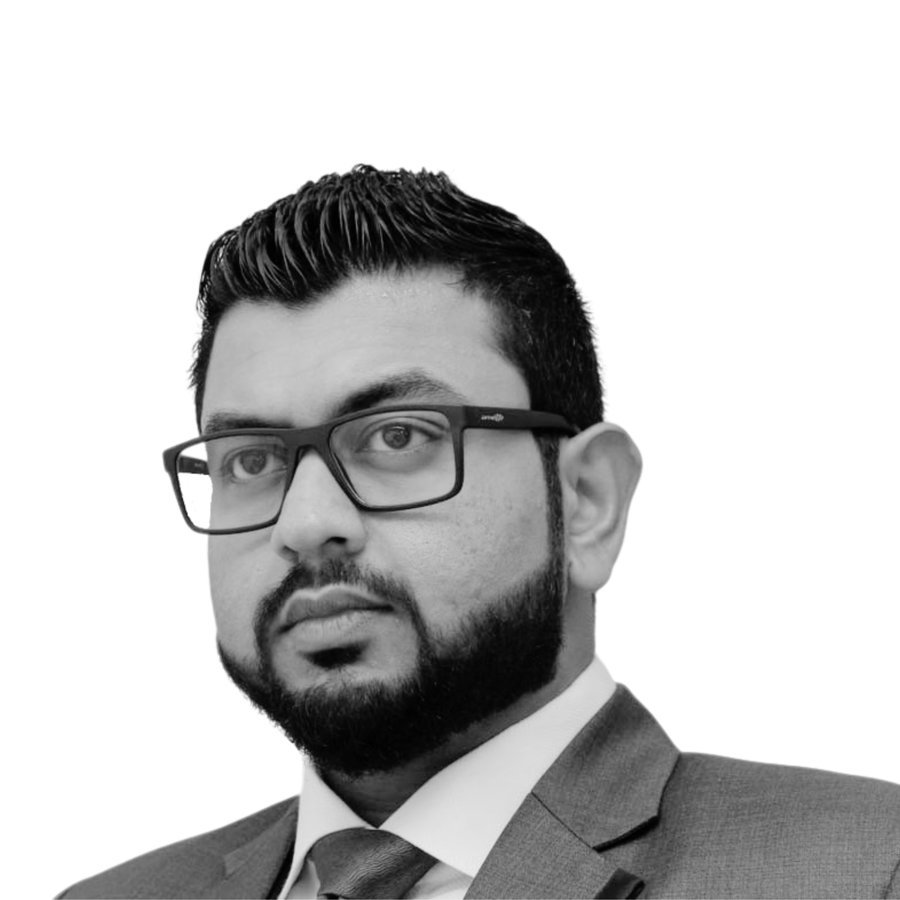
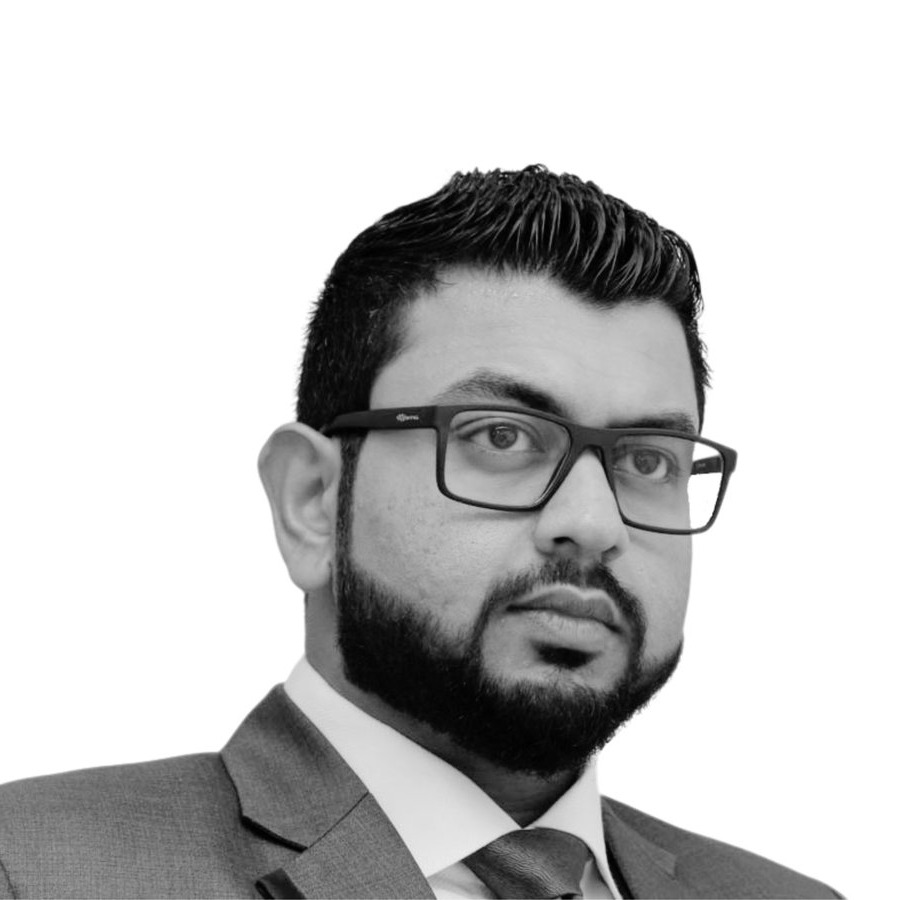
Switch general content area to light gray theme, drop background texture, flip profile photo, scope count-up animation to header only
- Removed the site-wide background texture/parallax layer entirely (div,
  CSS, JS, and the source image). Hero and footer keep their existing dark
  backgrounds and imagery untouched.
- Reworked the color system: general content (stats, experience, skills,
  background sections) now runs on a light gray palette. Hero/footer/nav/
  crosshair/side-rail — everything drawn against the still-dark hero and
  footer — now uses a separate --accent-on-dark token tuned for contrast
  against dark backgrounds, since a single accent can't read well against
  both a light and a dark background at once.
- Flipped the profile photo horizontally.
- Animated count-up numbers now apply only to the header stats strip
  (14+, 180+, etc.), at a faster 2s duration. Role-level metric cards and
  GOS project values are back to static text.

diff --git a/styles.css b/styles.css
@@ -1,10 +1,15 @@
 :root{
-  --bg:#10141a; --surface:#171d26; --surface-2:#1c2430; --surface-3:#242e3c;
-  --ink:#edf0f3; --ink-soft:#aeb7c2; --ink-faint:#7d8794;
-  --line:#2b3542; --line-soft:#212a36;
-  --accent:#e2913f; --accent-ink:#1a1206; --accent-soft:#4a3319;
-  --steel:#7fa1c4; --steel-soft:#22303f;
-  --shadow: 0 1px 2px rgba(0,0,0,.35), 0 10px 30px -14px rgba(0,0,0,.65);
+  --bg:#eef0f2; --surface:#ffffff; --surface-2:#e3e6e9; --surface-3:#d7dade;
+  --ink:#1b2027; --ink-soft:#565f6b; --ink-faint:#7c8492;
+  --line:#ccd0d5; --line-soft:#dde0e3;
+  --accent:#c06a1f; --accent-rgb:192,106,31; --accent-ink:#fffaf3; --accent-soft:#e9c79a;
+  /* Hero, footer, and the top nav keep their own dark backgrounds (unchanged by
+     the light theme below); anything drawn against them — chips, the crosshair,
+     the side rail, the profile-photo corners — needs a brighter accent to stay
+     legible, since the general-content accent above is tuned for a light bg. */
+  --accent-on-dark:#e2913f; --accent-on-dark-rgb:226,145,63;
+  --steel:#33506d; --steel-soft:#dbe4ec;
+  --shadow: 0 1px 2px rgba(20,20,10,.06), 0 8px 24px -12px rgba(20,20,10,.16);
   --font-display: 'Inter', -apple-system, "Segoe UI", "Helvetica Neue", Arial, sans-serif;
   --font-body: 'Inter', -apple-system, "Segoe UI", "Helvetica Neue", Arial, sans-serif;
   --font-mono: ui-monospace, "SFMono-Regular", "Cascadia Mono", Consolas, "Liberation Mono", monospace;
@@ -13,19 +18,9 @@
 *{box-sizing:border-box;}
 html{-webkit-text-size-adjust:100%;}
 body{
-  margin:0; position:relative; color:var(--ink); background-color:var(--bg);
+  margin:0; color:var(--ink); background-color:var(--bg);
   font-family:var(--font-body); font-size:16px; line-height:1.55;
   -webkit-font-smoothing:antialiased; overflow-x:hidden;
-}
-.bg-layer{
-  position:fixed; left:0; right:0; top:-12vh; height:124vh; z-index:-1;
-  background-image:
-    linear-gradient(rgba(12,15,20,.93), rgba(12,15,20,.93)),
-    url('img/site-bg.jpg');
-  background-size: cover, cover;
-  background-position: center, center 35%;
-  background-repeat: no-repeat, no-repeat;
-  will-change: transform;
 }
 img{max-width:100%; display:block;}
 a{color:inherit;}
@@ -42,7 +37,7 @@ a{color:inherit;}
   color:var(--accent); font-weight:600;
   display:inline-flex; align-items:center; gap:5px;
 }
-.eyebrow.on-dark{ color:var(--accent); }
+.eyebrow.on-dark{ color:var(--accent-on-dark); }
 .eyebrow::before, .eyebrow::after{
   content:""; flex:none; width:0; height:0;
   border-top:4px solid transparent; border-bottom:4px solid transparent;
@@ -64,7 +59,7 @@ a{color:inherit;}
 .topnav-avatar{
   display:inline-flex; align-items:center; justify-content:center;
   width:32px; height:32px; border-radius:8px; flex:none;
-  border:1.5px solid var(--accent); color:var(--accent);
+  border:1.5px solid var(--accent-on-dark); color:var(--accent-on-dark);
   font-family:var(--font-display); font-weight:800; font-size:12.5px; letter-spacing:.02em;
 }
 .topnav-name{ font-family:var(--font-display); font-weight:500; font-size:14.5px; }
@@ -74,7 +69,7 @@ a{color:inherit;}
   color:#cfd6dc; text-decoration:none; font-size:13px; font-weight:600; letter-spacing:.04em;
   transition:color .25s ease, text-shadow .25s ease;
 }
-.topnav-links a:not(.btn-primary):hover{ color:var(--accent); text-shadow:0 0 12px rgba(226,145,63,.6); }
+.topnav-links a:not(.btn-primary):hover{ color:var(--accent-on-dark); text-shadow:0 0 12px rgba(var(--accent-on-dark-rgb),.6); }
 .topnav-cta{ padding:8px 16px; font-size:13px; }
 
 .topnav-burger{
@@ -82,7 +77,7 @@ a{color:inherit;}
   width:34px; height:34px; border:1px solid var(--line); border-radius:7px;
   background:transparent; cursor:pointer; padding:0; align-items:center;
 }
-.topnav-burger span{ width:16px; height:2px; background:var(--ink); border-radius:2px; transition:transform .25s ease, opacity .25s ease; }
+.topnav-burger span{ width:16px; height:2px; background:#e7eaed; border-radius:2px; transition:transform .25s ease, opacity .25s ease; }
 .topnav-burger.open span:nth-child(1){ transform:translateY(7px) rotate(45deg); }
 .topnav-burger.open span:nth-child(2){ opacity:0; }
 .topnav-burger.open span:nth-child(3){ transform:translateY(-7px) rotate(-45deg); }
@@ -94,7 +89,7 @@ a{color:inherit;}
 .topnav-mobile.open{ display:flex; }
 .topnav-mobile a{
   color:#e7eaed; text-decoration:none; font-size:15px; font-weight:600; text-transform:uppercase; letter-spacing:.04em;
-  padding:12px 4px; border-bottom:1px solid var(--line-soft);
+  padding:12px 4px; border-bottom:1px solid rgba(255,255,255,.12);
 }
 .topnav-mobile a.btn-primary{ margin-top:10px; justify-content:center; border-bottom:none; }
 
@@ -106,17 +101,17 @@ a{color:inherit;}
 /* ---------- AUTOCAD CROSSHAIR CURSOR ---------- */
 body.cad-active, body.cad-active *{ cursor:none !important; }
 .cad-cursor{ position:fixed; inset:0; pointer-events:none; z-index:9999; display:none; }
-.cad-line{ position:fixed; background:rgba(226,145,63,.55); pointer-events:none; }
+.cad-line{ position:fixed; background:rgba(var(--accent-on-dark-rgb),.55); pointer-events:none; }
 .cad-h{ left:0; right:0; height:1px; top:0; }
 .cad-v{ top:0; bottom:0; width:1px; left:0; }
 .cad-box{
   position:fixed; top:0; left:0; width:9px; height:9px; margin:-4.5px 0 0 -4.5px;
-  border:1px solid var(--accent); background:rgba(226,145,63,.14); pointer-events:none;
+  border:1px solid var(--accent-on-dark); background:rgba(var(--accent-on-dark-rgb),.14); pointer-events:none;
   transition:width .15s ease, height .15s ease, margin .15s ease, box-shadow .15s ease, background .15s ease;
 }
 .cad-box.cad-box-hot{
   width:15px; height:15px; margin:-7.5px 0 0 -7.5px;
-  background:rgba(226,145,63,.4); box-shadow:0 0 12px 2px rgba(226,145,63,.55);
+  background:rgba(var(--accent-on-dark-rgb),.4); box-shadow:0 0 12px 2px rgba(var(--accent-on-dark-rgb),.55);
 }
 @media (hover:none), (pointer:coarse){ .cad-cursor{ display:none !important; } body.cad-active, body.cad-active *{ cursor:auto !important; } }
 
@@ -134,8 +129,8 @@ body.cad-active, body.cad-active *{ cursor:none !important; }
   background:var(--surface-3); border:1.5px solid var(--line); text-decoration:none;
   transition:background .3s ease, border-color .3s ease, box-shadow .3s ease, transform .3s ease;
 }
-.rail-dot:hover{ border-color:var(--accent); transform:scale(1.25); }
-.rail-dot.active{ background:var(--accent); border-color:var(--accent); box-shadow:0 0 10px 2px rgba(226,145,63,.55); transform:scale(1.3); }
+.rail-dot:hover{ border-color:var(--accent-on-dark); transform:scale(1.25); }
+.rail-dot.active{ background:var(--accent-on-dark); border-color:var(--accent-on-dark); box-shadow:0 0 10px 2px rgba(var(--accent-on-dark-rgb),.55); transform:scale(1.3); }
 .rail-tip{
   position:absolute; right:20px; top:50%; transform:translateY(-50%);
   font-family:var(--font-mono); font-size:11px; letter-spacing:.05em; text-transform:uppercase;
@@ -154,7 +149,7 @@ body.cad-active, body.cad-active *{ cursor:none !important; }
     linear-gradient(160deg,#171d25,#0f1319 78%);
   color:#f2f4f6;
   padding:76px 0 64px;
-  border-bottom:6px solid var(--accent);
+  border-bottom:6px solid var(--accent-on-dark);
 }
 .hero::before{
   content:""; position:absolute; inset:0; z-index:0;
@@ -162,8 +157,6 @@ body.cad-active, body.cad-active *{ cursor:none !important; }
   background-size:cover; background-position:center 30%;
   opacity:.09; mix-blend-mode:screen; pointer-events:none;
 }
-:root[data-theme="light"] .hero,
-:root:not([data-theme="dark"]) .hero{ }
 .hero-grid{
   position:relative; z-index:1;
   display:grid; grid-template-columns:auto 1fr; gap:44px; align-items:center;
@@ -179,8 +172,8 @@ body.cad-active, body.cad-active *{ cursor:none !important; }
   border:1px solid rgba(255,255,255,.14);
 }
 .badge-frame .corner{
-  position:absolute; width:22px; height:22px; border-color:var(--accent); border-style:solid; border-width:0;
-  filter:drop-shadow(0 0 6px rgba(226,145,63,.65));
+  position:absolute; width:22px; height:22px; border-color:var(--accent-on-dark); border-style:solid; border-width:0;
+  filter:drop-shadow(0 0 6px rgba(var(--accent-on-dark-rgb),.65));
 }
 .badge-frame .c-tl{ top:-9px; left:-9px; border-top-width:3px; border-left-width:3px; }
 .badge-frame .c-tr{ top:-9px; right:-9px; border-top-width:3px; border-right-width:3px; }
@@ -205,13 +198,13 @@ body.cad-active, body.cad-active *{ cursor:none !important; }
   font-size:13px; color:#e7eaed; text-decoration:none; background:rgba(255,255,255,.04);
   transition: background .2s ease, border-color .2s ease, box-shadow .3s ease, transform .3s ease;
 }
-.chip:hover{ background:rgba(255,255,255,.1); border-color:var(--accent); }
+.chip:hover{ background:rgba(255,255,255,.1); border-color:var(--accent-on-dark); }
 a.chip:hover{
-  border-color:var(--accent); transform:translateY(-2px);
-  box-shadow:0 0 18px -3px rgba(226,145,63,.6);
+  border-color:var(--accent-on-dark); transform:translateY(-2px);
+  box-shadow:0 0 18px -3px rgba(var(--accent-on-dark-rgb),.6);
 }
-a.chip:hover b, a.chip:hover{ text-shadow:0 0 10px rgba(226,145,63,.5); }
-.chip b{ color:var(--accent); font-family:var(--font-mono); font-weight:600; }
+a.chip:hover b, a.chip:hover{ text-shadow:0 0 10px rgba(var(--accent-on-dark-rgb),.5); }
+.chip b{ color:var(--accent-on-dark); font-family:var(--font-mono); font-weight:600; }
 .chip.on-light{ border-color:var(--line); color:var(--ink); background:var(--surface); box-shadow:var(--shadow); }
 .chip.on-light:hover{ background:var(--surface); border-color:var(--accent); }
 
@@ -225,7 +218,7 @@ a.chip:hover b, a.chip:hover{ text-shadow:0 0 10px rgba(226,145,63,.5); }
   transition:box-shadow .3s ease, border-color .3s ease, transform .3s ease;
 }
 .tile .dot{ width:7px; height:7px; border-radius:50%; background:var(--accent); flex:none; transition:box-shadow .3s ease; }
-.tile:hover{ border-color:var(--accent); transform:translateY(-2px); box-shadow:0 0 22px -4px rgba(226,145,63,.5), var(--shadow); }
+.tile:hover{ border-color:var(--accent); transform:translateY(-2px); box-shadow:0 0 22px -4px rgba(var(--accent-rgb),.5), var(--shadow); }
 .tile:hover .dot{ box-shadow:0 0 8px 1px var(--accent); }
 
 /* ---------- CAPABILITIES (Skills / Tools / Applications) ---------- */
@@ -241,7 +234,7 @@ a.chip:hover b, a.chip:hover{ text-shadow:0 0 10px rgba(226,145,63,.5); }
   box-shadow:var(--shadow); position:relative; overflow:hidden;
   transition:box-shadow .3s ease, border-color .3s ease, transform .3s ease;
 }
-.app-card:hover{ border-color:var(--accent); transform:translateY(-2px); box-shadow:0 0 26px -6px rgba(226,145,63,.5), var(--shadow); }
+.app-card:hover{ border-color:var(--accent); transform:translateY(-2px); box-shadow:0 0 26px -6px rgba(var(--accent-rgb),.5), var(--shadow); }
 .app-card::before{
   content:""; position:absolute; top:0; left:0; width:4px; height:100%; background:var(--accent);
 }
@@ -322,7 +315,7 @@ main{ position:relative; }
   padding:10px 14px; min-width:118px; box-shadow:var(--shadow);
   transition:box-shadow .3s ease, border-color .3s ease;
 }
-.metric:hover{ border-color:var(--accent); box-shadow:0 0 18px -4px rgba(226,145,63,.5), var(--shadow); }
+.metric:hover{ border-color:var(--accent); box-shadow:0 0 18px -4px rgba(var(--accent-rgb),.5), var(--shadow); }
 .metric .m-num{ font-family:var(--font-mono); font-weight:700; color:var(--accent); font-size:16px; }
 .metric .m-label{ font-size:11px; color:var(--ink-faint); text-transform:uppercase; letter-spacing:.04em; margin-top:2px;}
 
@@ -336,7 +329,7 @@ main{ position:relative; }
   box-shadow:var(--shadow); background:var(--surface-3);
   transition:box-shadow .35s ease, border-color .35s ease;
 }
-.gph:hover{ border-color:var(--accent); box-shadow:0 0 30px -6px rgba(226,145,63,.55), var(--shadow); }
+.gph:hover{ border-color:var(--accent); box-shadow:0 0 30px -6px rgba(var(--accent-rgb),.55), var(--shadow); }
 .gph img{
   width:100%; height:100%; object-fit:cover;
   filter:grayscale(1) contrast(1.02);
@@ -376,7 +369,7 @@ main{ position:relative; }
   border:1px solid var(--line); border-radius:8px; padding:14px 16px; background:var(--surface);
   transition:box-shadow .3s ease, border-color .3s ease, transform .3s ease;
 }
-.mini-proj:hover{ border-color:var(--accent); transform:translateY(-2px); box-shadow:0 0 24px -6px rgba(226,145,63,.45), var(--shadow); }
+.mini-proj:hover{ border-color:var(--accent); transform:translateY(-2px); box-shadow:0 0 24px -6px rgba(var(--accent-rgb),.45), var(--shadow); }
 .mini-proj .mp-name{ font-weight:700; font-size:14.5px; }
 .mini-proj .mp-loc{ font-size:12px; color:var(--ink-faint); margin:2px 0 8px; }
 .mini-proj .mp-val{ font-family:var(--font-mono); color:var(--accent); font-weight:700; font-size:14px; }
@@ -404,11 +397,11 @@ footer .foot-grid{ display:flex; justify-content:space-between; align-items:flex
 footer h2{ font-family:var(--font-display); font-weight:500; text-transform:uppercase; font-size:clamp(24px,3.4vw,34px); margin:6px 0 14px; }
 footer .foot-note{ color:#8b939c; font-size:12.5px; margin-top:26px; font-family:var(--font-mono); }
 .btn-primary{
-  display:inline-flex; align-items:center; gap:8px; background:var(--accent); color:var(--accent-ink);
+  display:inline-flex; align-items:center; gap:8px; background:var(--accent-on-dark); color:#1a1206;
   padding:13px 22px; border-radius:8px; text-decoration:none; font-weight:700; font-size:14.5px;
   box-shadow:var(--shadow);
   transition:box-shadow .3s ease, transform .3s ease;
 }
-.btn-primary:hover{ transform:translateY(-2px); box-shadow:0 0 26px -2px rgba(226,145,63,.7), var(--shadow); }
+.btn-primary:hover{ transform:translateY(-2px); box-shadow:0 0 26px -2px rgba(var(--accent-on-dark-rgb),.7), var(--shadow); }
 
 .section-pad{ padding:0; }

diff --git a/index.html b/index.html
@@ -12,8 +12,6 @@
 </head>
 <body id="top">
 
-<div class="bg-layer" id="bgLayer"></div>
-
 <div class="cad-cursor" id="cadCursor" aria-hidden="true">
   <div class="cad-line cad-h" id="cadH"></div>
   <div class="cad-line cad-v" id="cadV"></div>
@@ -438,26 +436,6 @@
   });
 })();
 
-// ---------- Background parallax ----------
-(function(){
-  var layer = document.getElementById('bgLayer');
-  if(!layer) return;
-  var ticking = false;
-  function update(){
-    var y = window.scrollY || window.pageYOffset;
-    // Continuous drift for the whole page — a clamped linear shift saturates
-    // after ~1000px and goes dead for the rest of a long page, so use a slow
-    // oscillation instead: it keeps gently moving no matter how far you scroll.
-    var shift = Math.sin(y / 900) * 50;
-    layer.style.transform = 'translateY(' + shift.toFixed(1) + 'px)';
-    ticking = false;
-  }
-  window.addEventListener('scroll', function(){
-    if(!ticking){ requestAnimationFrame(update); ticking = true; }
-  }, { passive:true });
-  update();
-})();
-
 // ---------- AutoCAD crosshair cursor ----------
 (function(){
   if(window.matchMedia && window.matchMedia('(hover: none), (pointer: coarse)').matches) return;
@@ -540,37 +518,21 @@
   sections.forEach(function(sec){ obs.observe(sec); });
 })();
 
-// ---------- Animated count-up numbers (site-wide) ----------
+// ---------- Animated count-up stats (header strip only) ----------
 (function(){
-  var nums = document.querySelectorAll('.stat .num, .metric .m-num, .mini-proj .mp-val');
+  var nums = document.querySelectorAll('.stat .num');
   if(!nums.length || typeof IntersectionObserver === 'undefined') return;
-  var DURATION = 2600;
+  var DURATION = 2000;
 
   function parseMetric(el){
     var text = el.textContent;
-    var m = text.match(/^([^\d]*)([\d,]+(?:\.\d+)?)([\s\S]*)$/);
+    var m = text.match(/^([^\d]*)([\d,]+)(.*)$/);
     if(!m) return null;
-    var prefix = m[1], numStr = m[2], rest = m[3];
-    var hasComma = numStr.indexOf(',') > -1;
-    var decMatch = numStr.match(/\.(\d+)$/);
-    var decimals = decMatch ? decMatch[1].length : 0;
-    var target = parseFloat(numStr.replace(/,/g, ''));
-    var second = null;
-    var arrowMatch = rest.match(/^→(\d+)([\s\S]*)$/);
-    if(arrowMatch){
-      second = { target: parseInt(arrowMatch[1], 10) };
-      rest = arrowMatch[2];
-    }
-    return { el:el, prefix:prefix, target:target, hasComma:hasComma, decimals:decimals, suffix:rest, second:second, animating:false };
+    return { el:el, prefix:m[1], target:parseInt(m[2].replace(/,/g, ''), 10), hasComma:m[2].indexOf(',') > -1, suffix:m[3], animating:false };
   }
 
-  function formatNum(val, hasComma, decimals){
-    if(decimals > 0){
-      return hasComma ? val.toLocaleString('en-US', { minimumFractionDigits:decimals, maximumFractionDigits:decimals })
-                       : val.toFixed(decimals);
-    }
-    var rounded = Math.round(val);
-    return hasComma ? rounded.toLocaleString('en-US') : String(rounded);
+  function formatNum(val, hasComma){
+    return hasComma ? val.toLocaleString('en-US') : String(val);
   }
 
   function animate(item){
@@ -579,14 +541,8 @@
       if(start === null) start = ts;
       var t = Math.min(1, (ts - start) / DURATION);
       var eased = t >= 1 ? 1 : 1 - Math.pow(2, -10 * t);
-      var val = eased * item.target;
-      var text = item.prefix + formatNum(val, item.hasComma, item.decimals);
-      if(item.second){
-        text += '→' + Math.round(eased * item.second.target) + item.suffix;
-      } else {
-        text += item.suffix;
-      }
-      item.el.textContent = text;
+      var val = Math.round(eased * item.target);
+      item.el.textContent = item.prefix + formatNum(val, item.hasComma) + item.suffix;
       if(t < 1){ requestAnimationFrame(frame); }
       else { item.animating = false; }
     }
@@ -599,7 +555,7 @@
       var item = parsed.filter(function(p){ return p.el === entry.target; })[0];
       if(item && entry.isIntersecting && !item.animating){
         item.animating = true;
-        item.el.textContent = item.prefix + formatNum(0, item.hasComma, item.decimals) + (item.second ? '→0' + item.suffix : item.suffix);
+        item.el.textContent = item.prefix + formatNum(0, item.hasComma) + item.suffix;
         animate(item);
       }
     });
